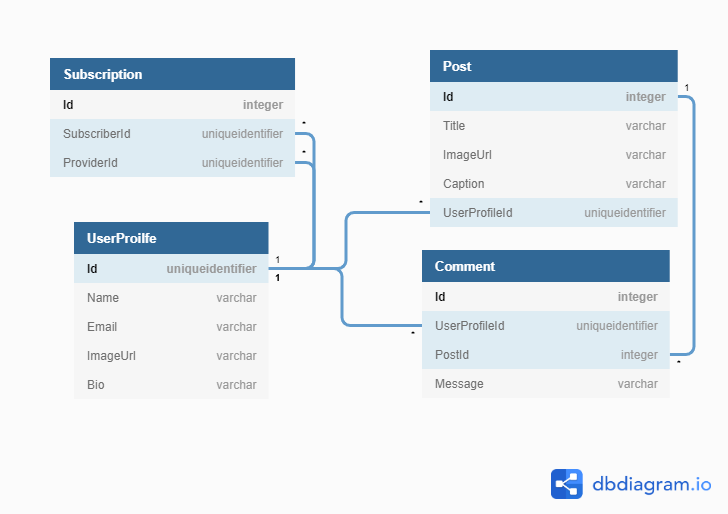
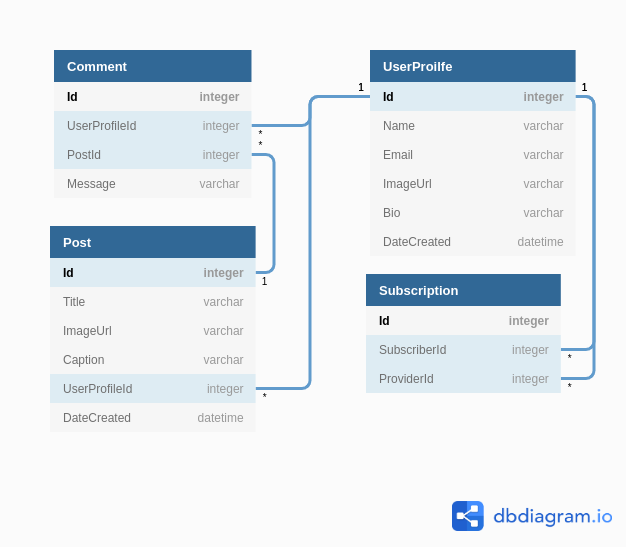
ef fixes and query example and exercises (#243)
* ef fixes and query example and exercises

* update and a fix to EF chapter

* adding some required attributes

* changed exercise in react+api chapter from delete to search

Changed region(s): [[0.0607, 0.0934, 0.9712, 0.7782], [0.6981, 0.9027, 0.9712, 0.9961]]

diff --git a/book-3-web-api/chapters/CONTROLLER_PARAMETERS.md b/book-3-web-api/chapters/CONTROLLER_PARAMETERS.md
@@ -82,10 +82,47 @@ The Reddit example demonstrates a common use case for query string parameters. T
 
 ### Query String Example
 
-**TODO**
+Let's add the ability to search Posts in Gifter. We'll search by `Title` and allow the results to be sorted by date in either an ascending or descending direction.
 
----
+We'll start by adding a new method to our `PostRepository`.
+
+```cs
+public List<Post> Search(string criterion, bool sortDescending)
+{
+    var query = _context.Post
+                        .Include(p => p.UserProfile)
+                        .Where(p => p.Title.Contains(criterion));
+
+    return sortDescending 
+        ? query.OrderByDescending(p => p.DateCreated).ToList()
+        : query.OrderBy(p => p.DateCreated).ToList();
+}
+```
+
+The `Search()` method uses EF Core and Linq to create a query that includes the search criterion and order the results appropriated.
+
+Note how Entity Framework Core lets us define the query across multiple lines. In this case, we separate the majority of the query from the ordering clause. Remember the SQL isn't executed until the `ToList()` method is called, so until then we are free to append Linq method calls to our query. This is a powerful feature of EF Core that allows us to dynamically construct queries.
+
+Once we have a repository method, we'll create the new Action in the `PostController`.
+
+```cs 
+[HttpGet("search")]
+public IActionResult Search(string q, bool sortDesc)
+{
+    return Ok(_postRepository.Search(q, sortDesc));
+}
+```
+
+The above method will respond to a request that looks like this:
+
+> https://localhost:5001/api/post/search?q=p&sortDesc=false
+
+Notice the URL's route contains `search` and the URL's query string has values for `q` and `sortDesc` keys. `search` corresponds to the the argument passed to the `[HttpGet("search")]` attribute, and `q` and `sortDesc` correspond to the method's parameters.
 
 ## Exercises
 
-**TODO**
+1. Update your Gifter API to allow searching of Posts by title as illustrated in this chapter.
+1. Update the search endpoint to search by title and the caption.
+1. Add a new endpoint, `/api/post/hottest?since=<SOME_DATE>` that will return posts created on or after the provided date.
+
+> **NOTE:** as always make sure to use Postman to test your API.

diff --git a/book-3-web-api/chapters/EF_INTRO.md b/book-3-web-api/chapters/EF_INTRO.md
@@ -106,13 +106,11 @@ public void Add(BeanVariety variety)
 
 To explore EF Core, we'll build a new app, Gifter. Gifter is a social app for sharing animated GIFs with others. For the time being we'll focus on using building a Web API using Entity Framework Core. In future chapters we'll be creating a React application that will interact with the API.
 
-Here's the initial Gifter ERD.
+Here's the initial Gifter ERD...
 
 ![Gifter ERD](./images/Gifter_ERD.png)
 
-Here's an example showing the different between EF and ADO<span>.NET</span>. This example selects all of the departments from the Bangazon database.
-
-And the [SQL Script](./sql/Gifter.sql)
+...and the [SQL Script](./sql/Gifter.sql).
 
 ### Installing Entity Framework Core Nuget Packages
 
@@ -168,6 +166,9 @@ namespace Gifter.Models
         public string Caption { get; set; }
 
         [Required]
+        public DateTime DateCreated { get; set; }
+
+        [Required]
         public int UserProfileId { get; set; }
 
         public UserProfile UserProfile { get; set; }
@@ -194,6 +195,10 @@ namespace Gifter.Models
         public string  Email { get; set; }
 
         public string ImageUrl { get; set; }
+
+        [Required]
+        public DateTime DateCreated { get; set; }
+
     }
 }
 ```
@@ -225,6 +230,13 @@ namespace Gifter.Data
     }
 }
 ```
+
+### DbSet&lt;T&gt;
+
+Notice the public properties in the `DbContext`. There is one `DbSet` for each table we will be interacting with. We'll see how they are used a little later.
+
+Just as we create model classes to represent the each table in our database, with Entity Framework Core we create a `DbContext` along with the appropriate `DbSet`s to represent an entire database.
+
 
 ### Configuration
 

diff --git a/book-3-web-api/chapters/REACT_WITH_API.md b/book-3-web-api/chapters/REACT_WITH_API.md
@@ -207,6 +207,6 @@ function App() {
 }
 ``` 
 
-2. Put a button somewhere in the Post component that allows a user to delete a post.
+1. Add a "Search Posts" feature to your app that uses the `/api/post/search` API endpoint.
 
-3. Update the Post component so that it includes the comments on each post
+1. Update the Post component so that it includes the comments on each post.
